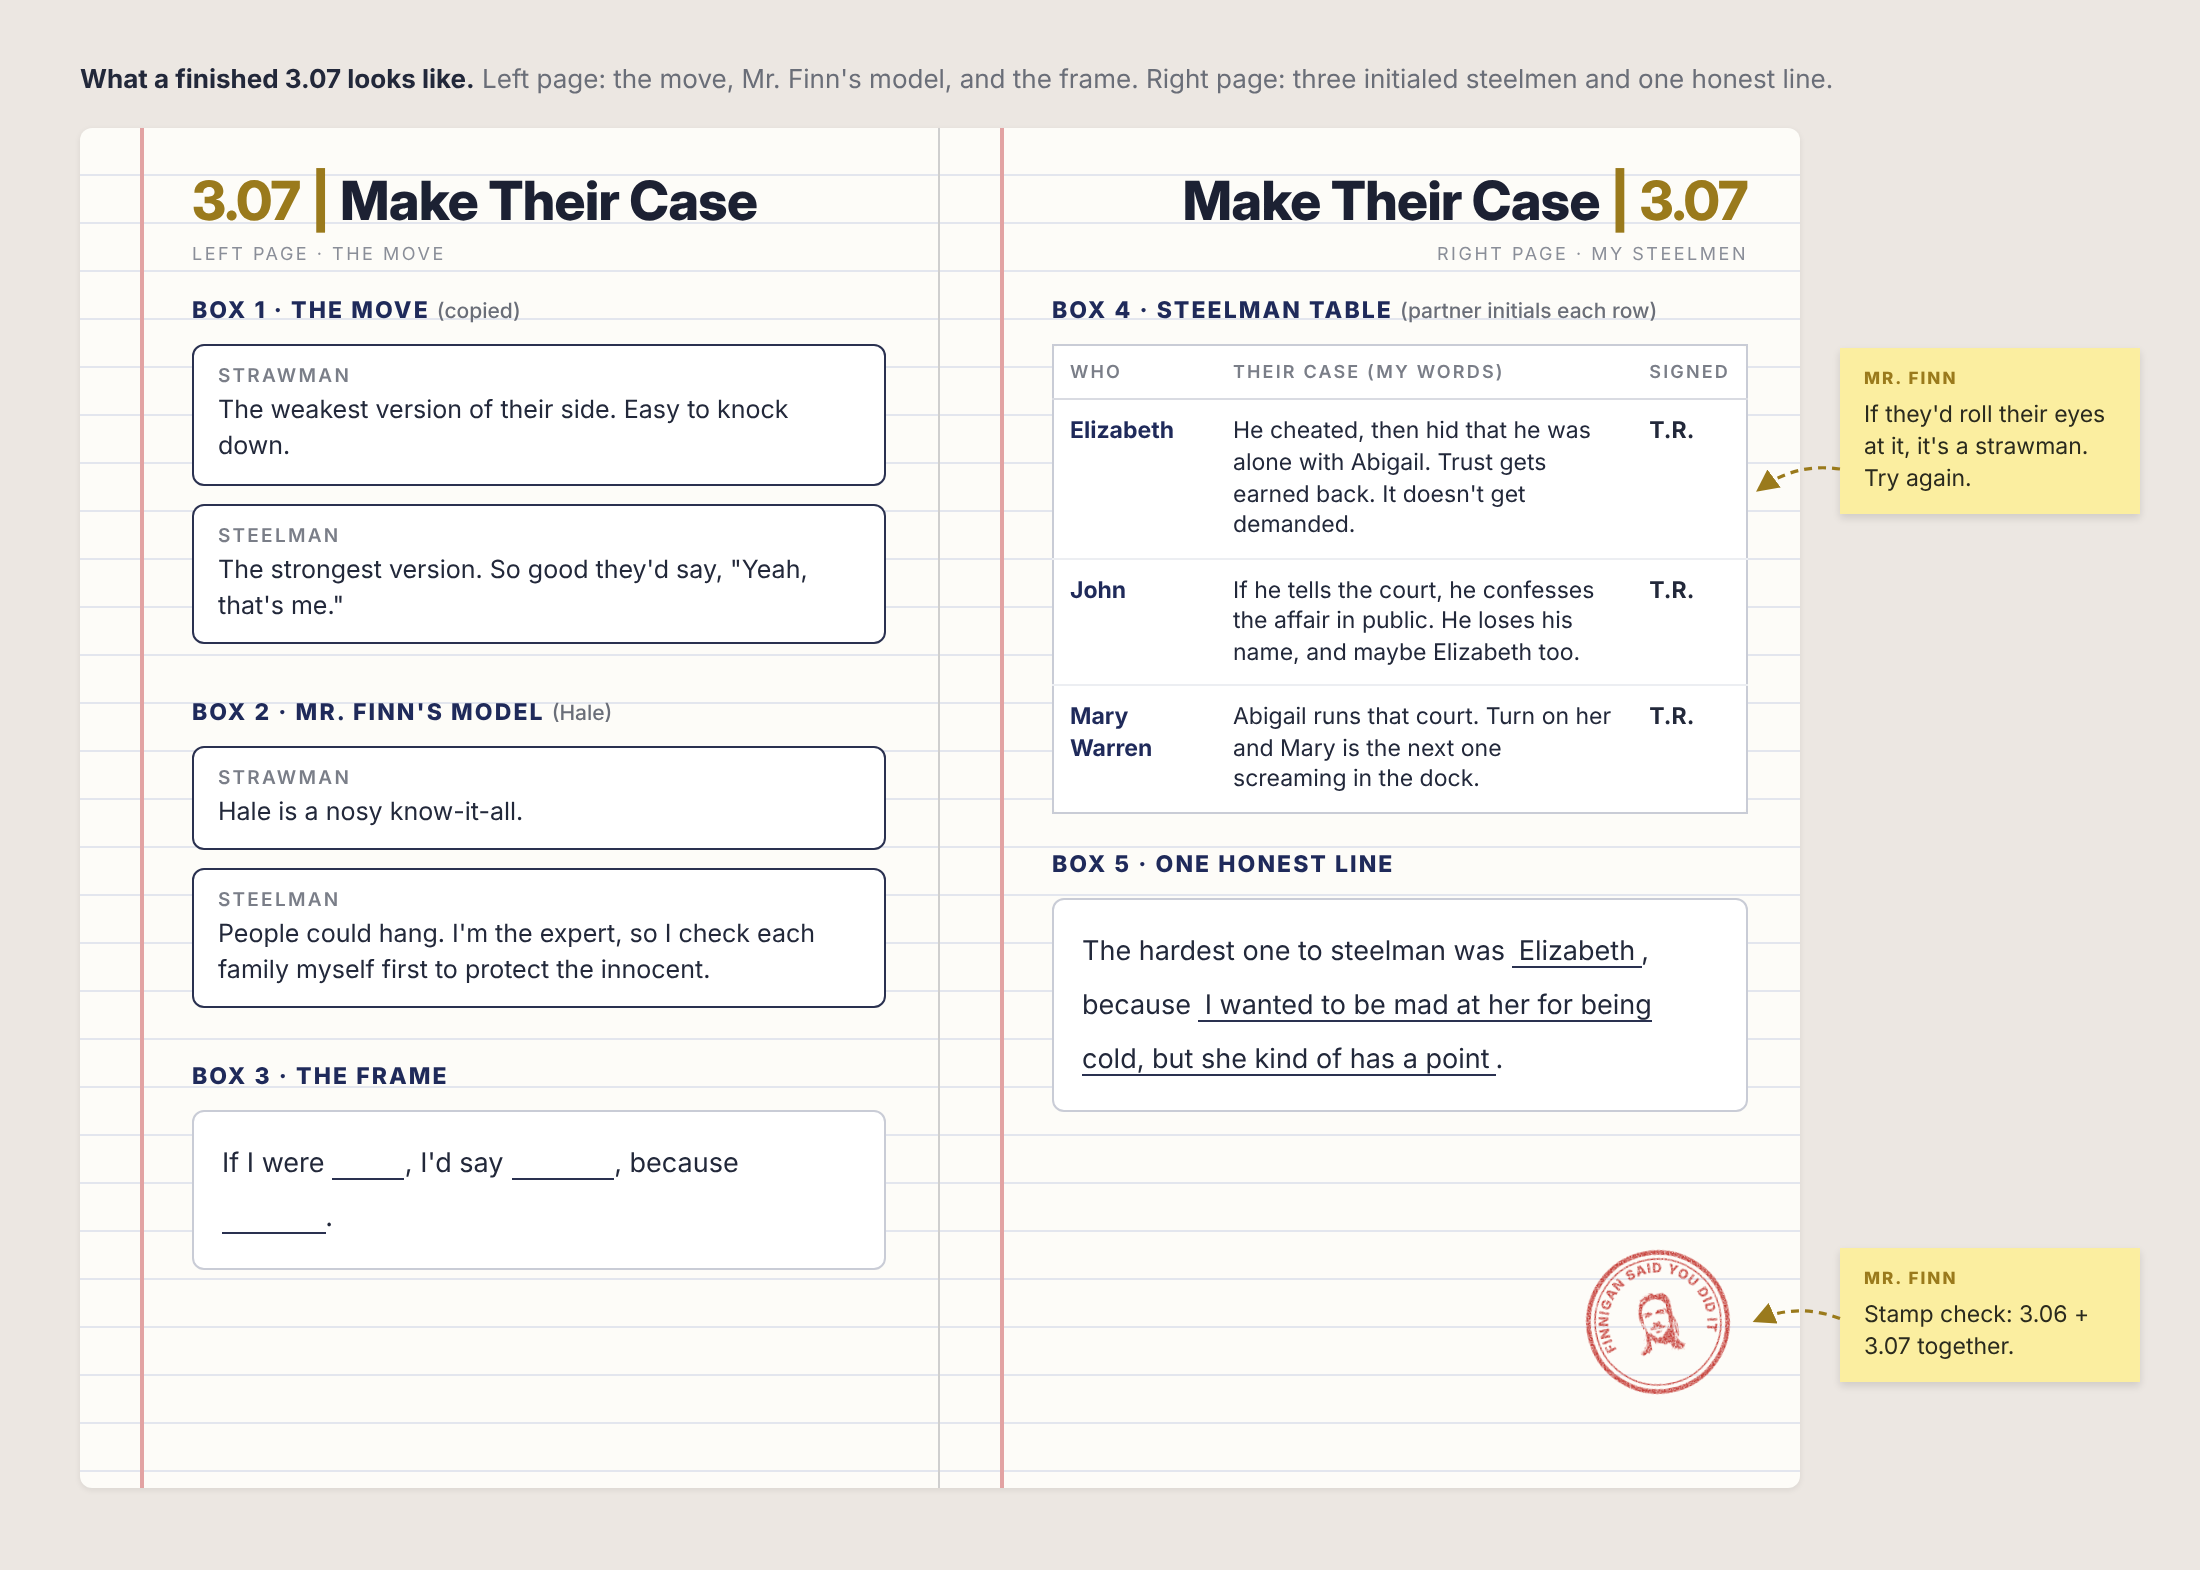
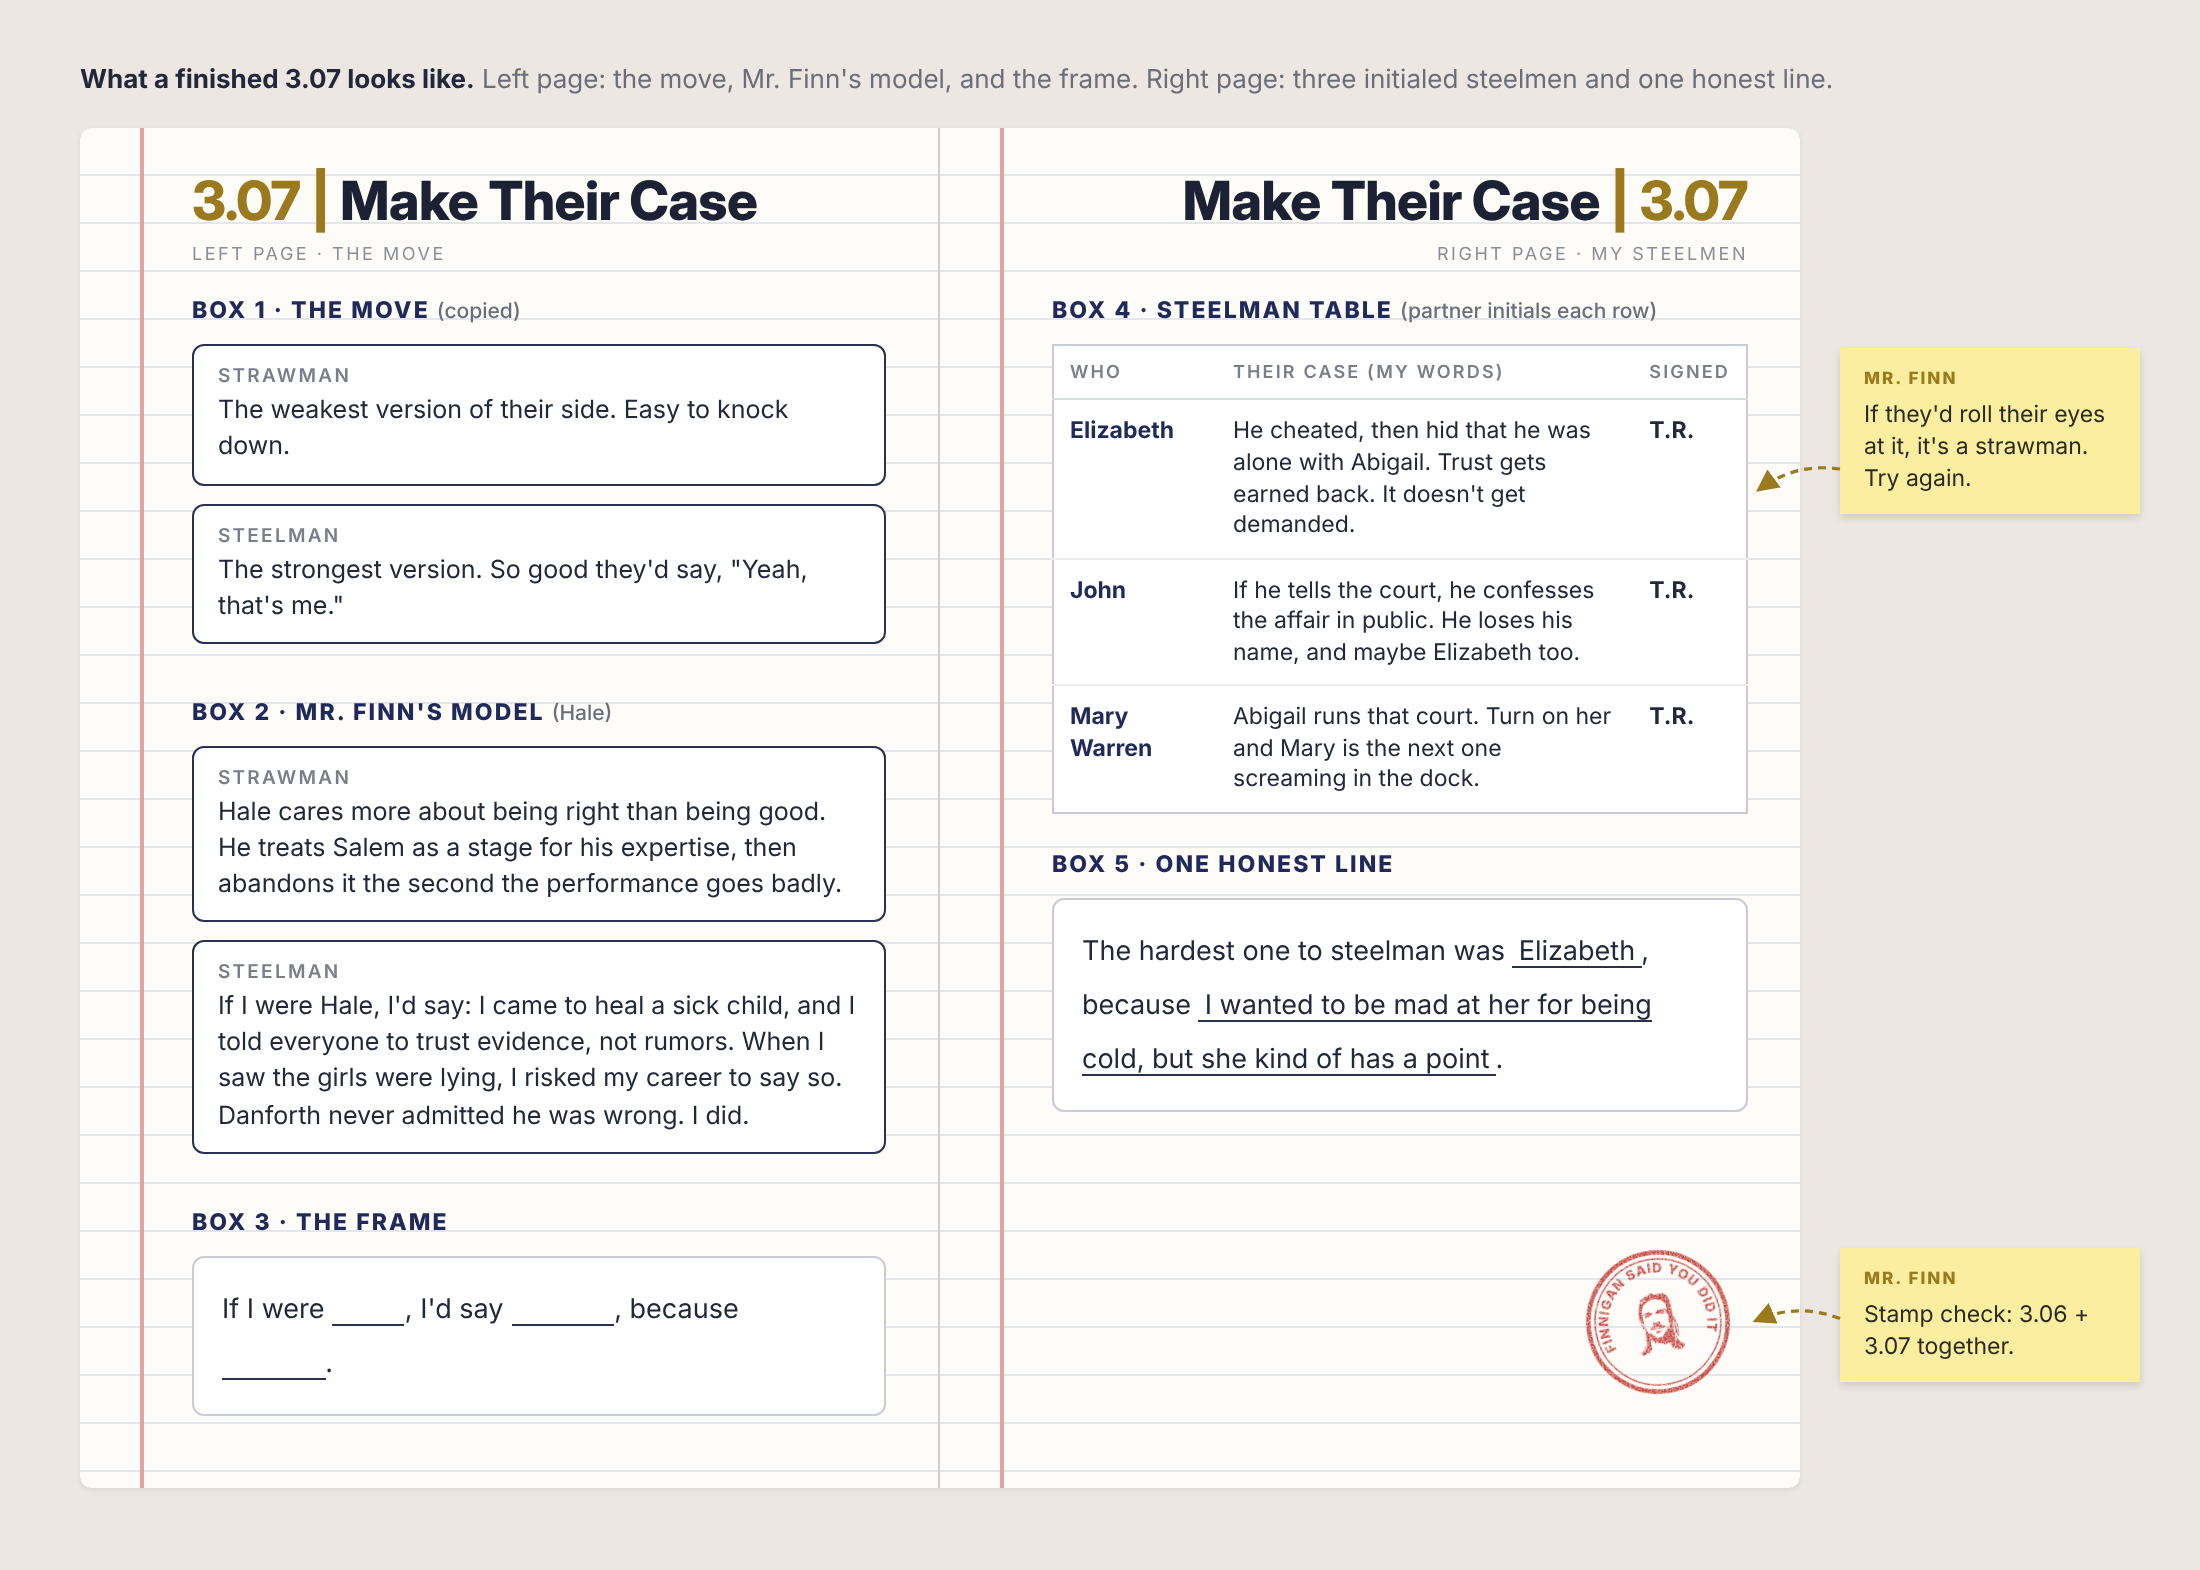
Steelman Update

Changed region(s): [[0.0927, 0.4994, 0.4018, 0.8427], [0.0927, 0.8739, 0.1545, 0.9051]]

diff --git a/erwc11/mod03/3.07.html b/erwc11/mod03/3.07.html
@@ -144,8 +144,8 @@
   <div class="frame"><b>Strawman:</b> the weakest, dumbest version of someone&rsquo;s side. Easy to knock down.<br><b>Steelman:</b> the strongest version of their side. So good they&rsquo;d say, &ldquo;Yeah, that&rsquo;s me.&rdquo;</div>
   <p>Here&rsquo;s the difference, using Reverend Hale:</p>
   <div class="compare">
-    <div class="bad"><div class="tag">Strawman</div><p>Hale is a nosy know-it-all who likes bossing people around.</p></div>
-    <div class="good"><div class="tag">Steelman</div><p>If I were Hale, I&rsquo;d say: the court is moving fast and people could hang. I&rsquo;m the expert. If I check each family myself first, I can protect the innocent before the court gets to them.</p></div>
+    <div class="bad"><div class="tag">Strawman</div><p>Hale cares more about being right than being good. He treats Salem as a stage for his expertise, then abandons it the second the performance goes badly.</p></div>
+    <div class="good"><div class="tag">Steelman</div><p>If I were Hale, I&rsquo;d say: I came to heal a sick child, and I told everyone to trust evidence, not rumors. When I saw the girls were lying, I risked my career to say so. Danforth never admitted he was wrong. I did.</p></div>
   </div>
   <p>Copy the steelman frame under it. You&rsquo;ll use it all period:</p>
   <div class="frame">If I were <span class="blank"></span>, I&rsquo;d say <span class="blank wide"></span>, because <span class="blank wide"></span>.</div>

diff --git a/notebook-models/notebook-model-erwc11-3.07.html b/notebook-models/notebook-model-erwc11-3.07.html
@@ -113,8 +113,8 @@ u.pg{display:inline-block;min-width:34px;border-bottom:1.5px solid #2a3150;text-
   <div class="study"><div class="k">Steelman</div><p>The strongest version. So good they'd say, "Yeah, that's me."</p></div>
   <div class="gap"></div>
   <div class="box">Box 2 · Mr. Finn's Model <span>(Hale)</span></div>
-  <div class="study" id="model"><div class="k">Strawman</div><p>Hale is a nosy know-it-all.</p></div>
-  <div class="study"><div class="k">Steelman</div><p>People could hang. I'm the expert, so I check each family myself first to protect the innocent.</p></div>
+  <div class="study" id="model"><div class="k">Strawman</div><p>Hale cares more about being right than being good. He treats Salem as a stage for his expertise, then abandons it the second the performance goes badly.</p></div>
+  <div class="study"><div class="k">Steelman</div><p>If I were Hale, I'd say: I came to heal a sick child, and I told everyone to trust evidence, not rumors. When I saw the girls were lying, I risked my career to say so. Danforth never admitted he was wrong. I did.</p></div>
   <div class="gap"></div>
   <div class="box">Box 3 · The Frame</div>
   <div class="bank">If I were <u>&nbsp;&nbsp;&nbsp;&nbsp;&nbsp;&nbsp;&nbsp;&nbsp;</u>, I'd say <u>&nbsp;&nbsp;&nbsp;&nbsp;&nbsp;&nbsp;&nbsp;&nbsp;&nbsp;&nbsp;&nbsp;&nbsp;</u>, because <u>&nbsp;&nbsp;&nbsp;&nbsp;&nbsp;&nbsp;&nbsp;&nbsp;&nbsp;&nbsp;&nbsp;&nbsp;</u>.</div>
